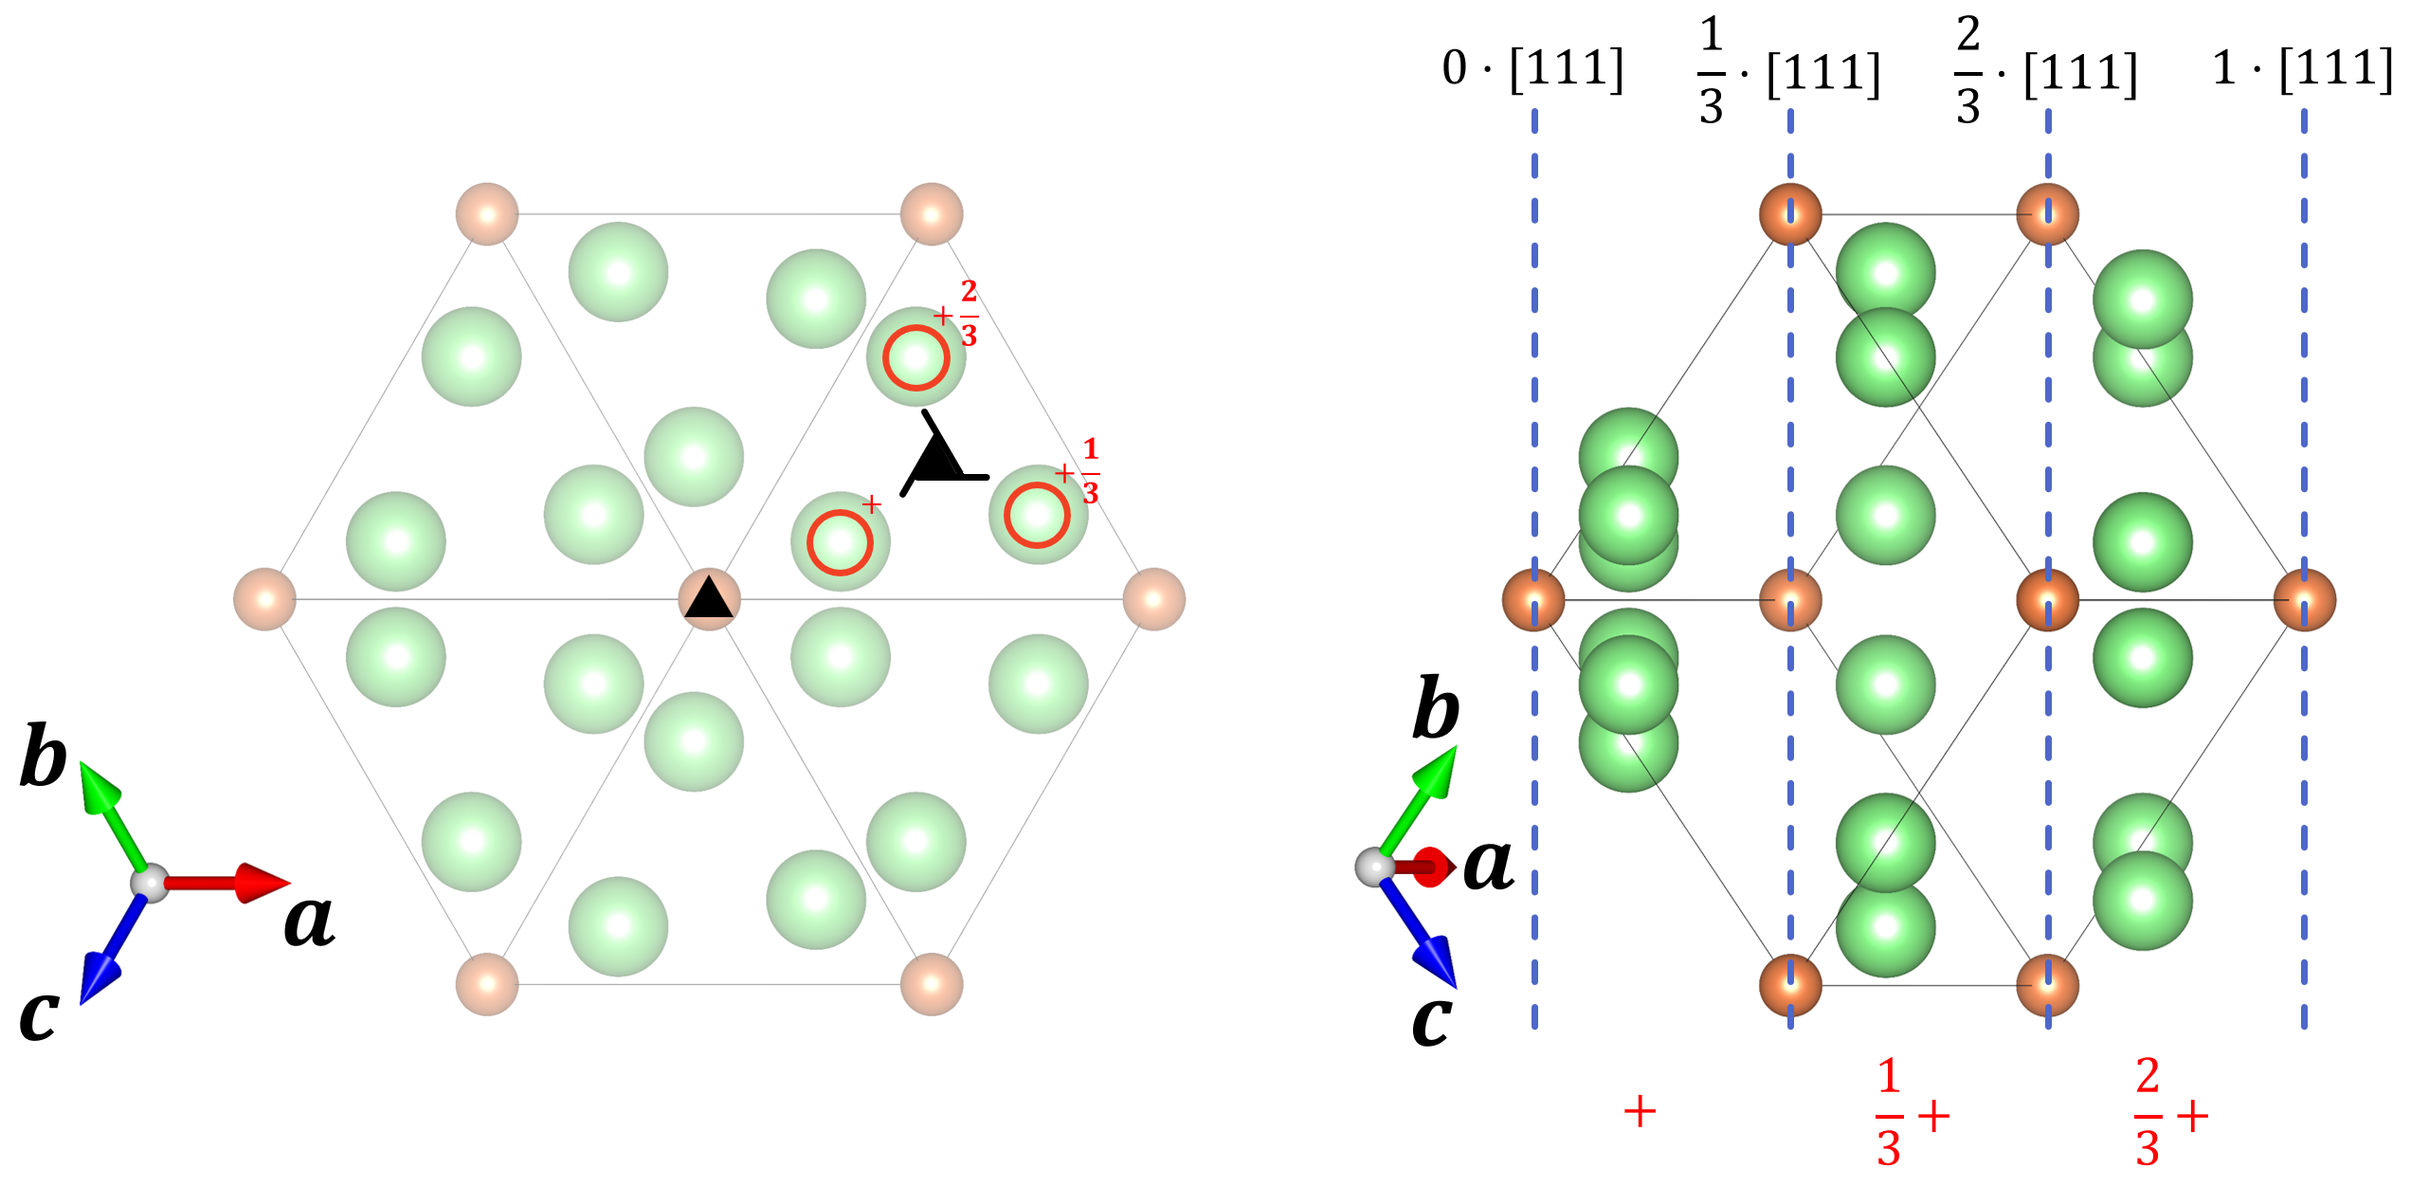
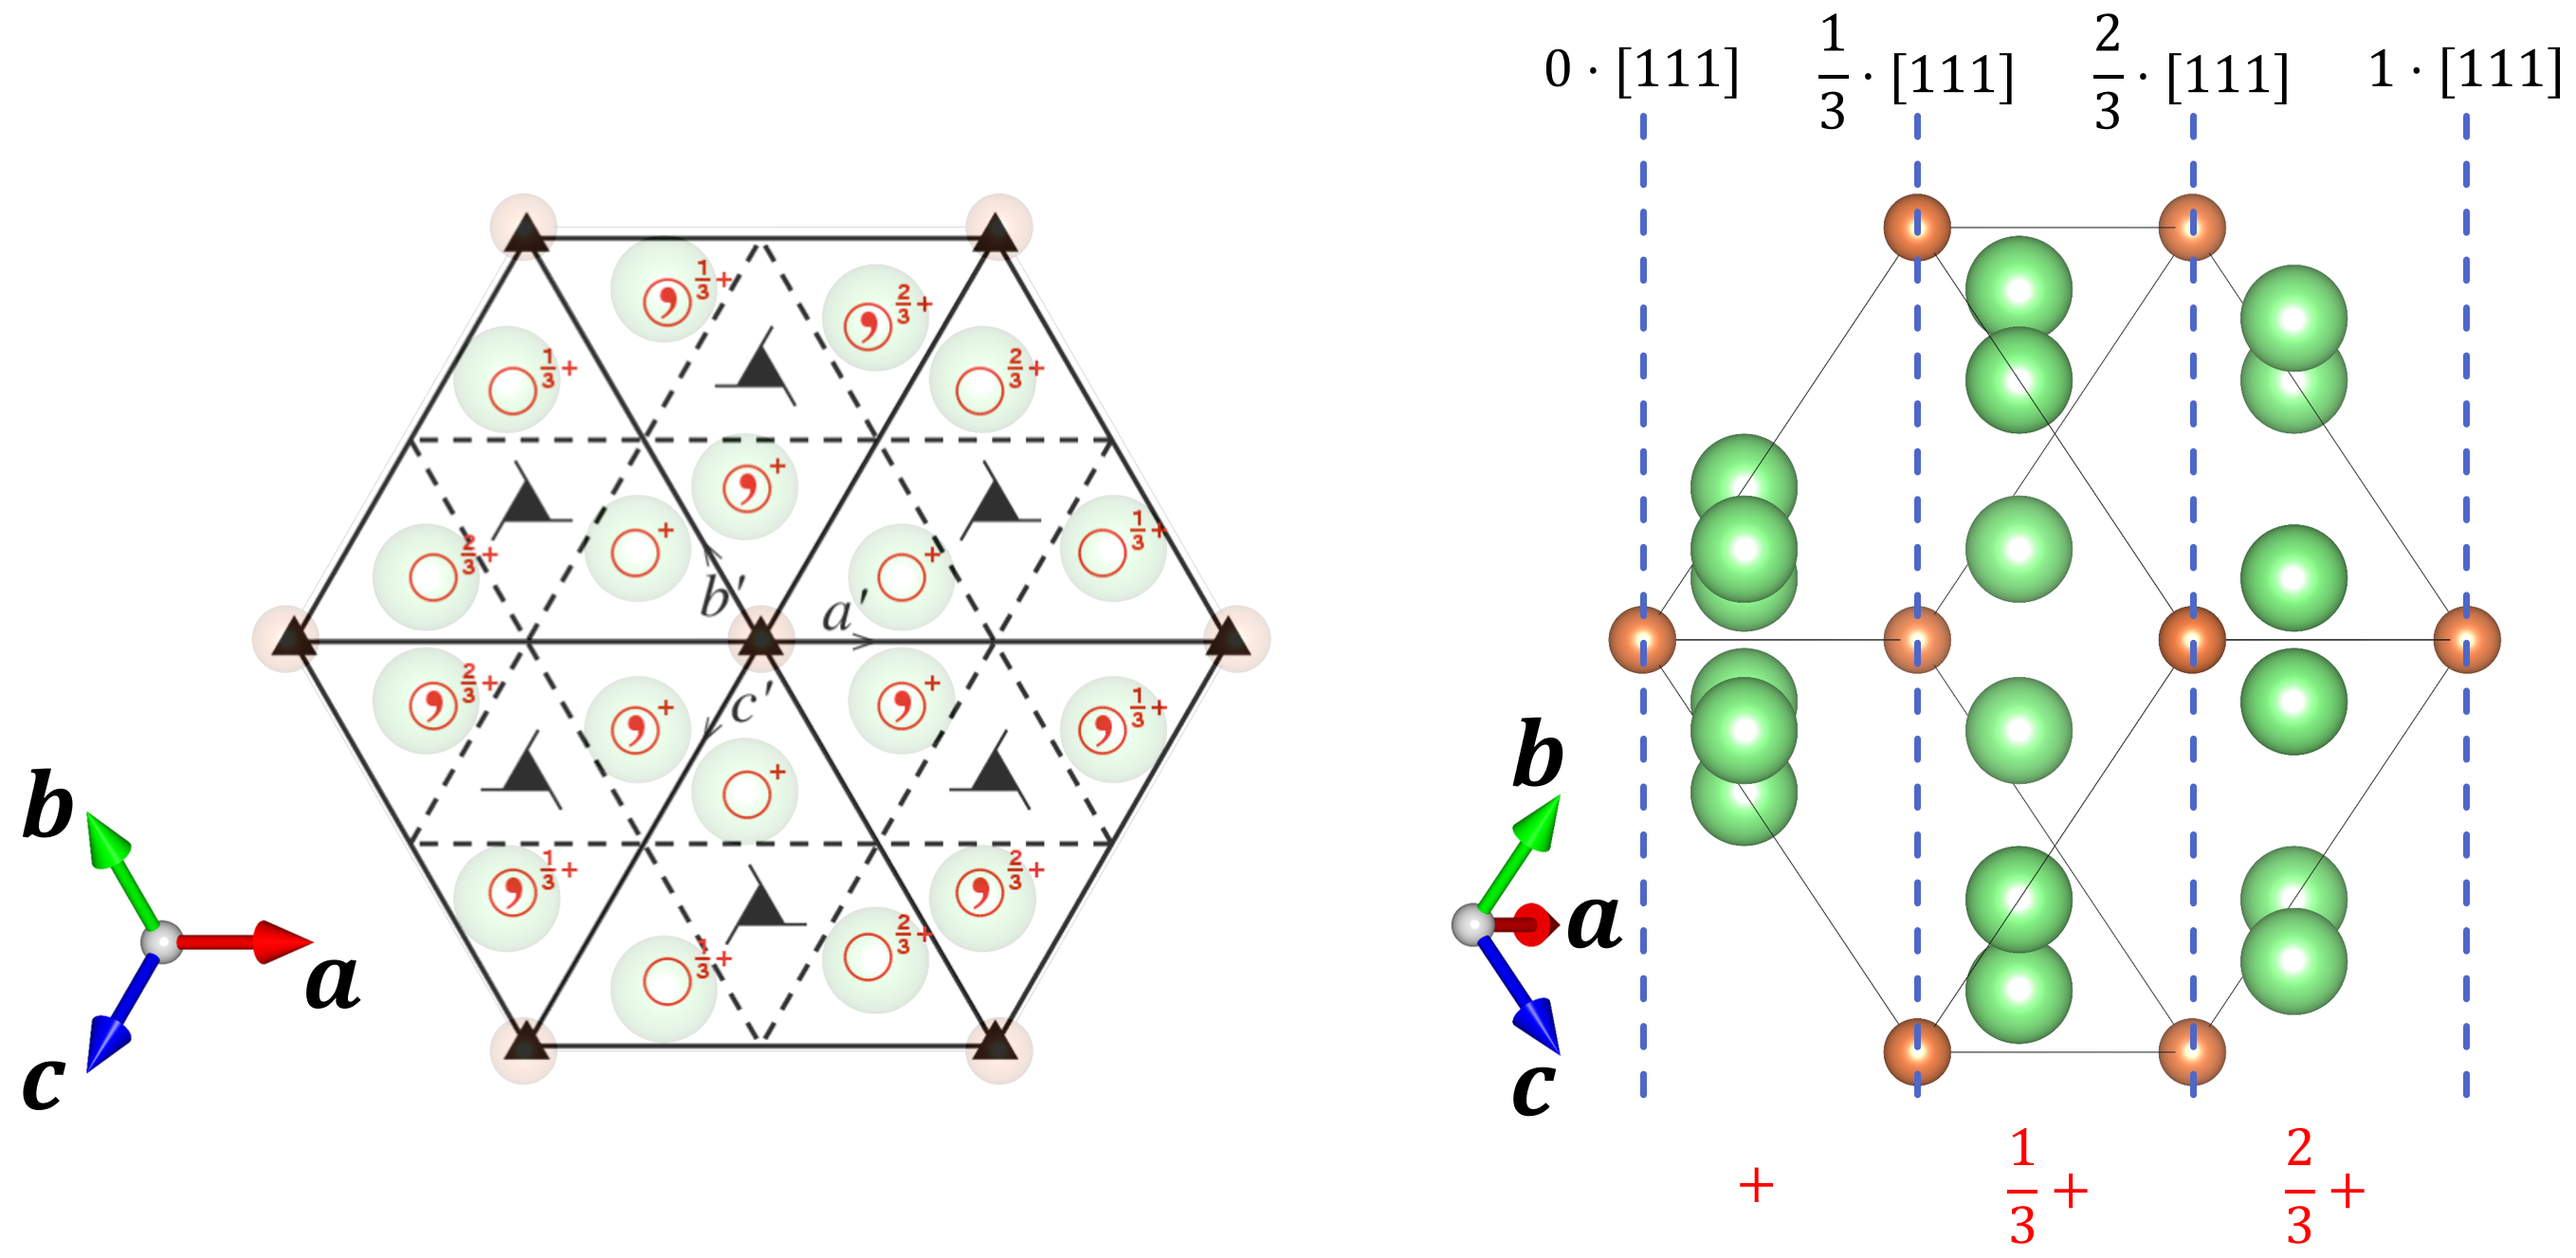
change figures after permission granted

diff --git a/_posts/2026-09-18-crystallography_r2.md b/_posts/2026-09-18-crystallography_r2.md
@@ -256,6 +256,10 @@ $$
 
 This means, for the site $$\mathbf{p}$$, we have its site symmetry group as $$\text{Stab}(\mathbf{p})$$. If a space group operation $$g$$ not in the stabalizer brings $$\mathbf{p}$$ to $$\mathbf{q}$$, the site symmetry group of the new site $$\mathbf{q}$$ is given as $$g\text{Stab}(\mathbf{p})g^{-1}$$ which is conjugate to $$\text{Stab}(\mathbf{p})$$ (this is the definition of conjugate subgroups). Let's walk through the conjugacy formulation and we can see why the derived conjugacy here means equivalence among sites involved in a Wyckoff position. For the position $$\mathbf{q}$$ obtained after the operation of $$g$$, not only the position of the object is changed but also the symmetry elements (rotation axis, mirror planes, etc.) are reoriented. To link to the situation before the operation of $$g$$, let's do this. We first apply $$g^{-1}$$ on $$\mathbf{q}$$ to bring it back to $$\mathbf{p}$$. Then whatever symmetry operations in $$\text{Stab}(\mathbf{p})$$ will leave $$\text{p}$$ invariant. Then we apply $$g$$ again to bring it back to $$\mathbf{q}$$. Doing this, we find that no matter how the symmetry elements are changed by the operation of $$g$$, we can always follow the chain of actions as given here to stabalize $$\mathbf{q}$$ the same way as how $$\text{Stab}(\mathbf{p})$$ would stabalize $$\mathbf{p}$$ before the operation of $$g$$. Therefore, the operation of $$g$$ does not change anything fundamentally regarding the site symmetry -- that's exactly what we mean by equivalence among sites involved in a Wyckoff position. Since the chain of action we performed here is just $$g\text{Stab}(\mathbf{p})g^{-1}$$, exactly the conjugate of $$\text{Stab}(\mathbf{p})$$, we then understand why the Wyckoff position is defined by the conjugacy of site symmetry groups.
 
+## Acknowledgement
+
+Figures involved in the post use the diagram figures for space groups from Ref. [9]. Thank you Jeremy Karl Cockcroft and the team at Birkbeck College, University of London for this great resource!
+
 ## References
 
 [1] [Space Group Diagram Symbols](http://img.chem.ucl.ac.uk/sgp/misc/symbols.htm).
@@ -273,3 +277,5 @@ This means, for the site $$\mathbf{p}$$, we have its site symmetry group as $$\t
 [7] [Geometric crystal class](https://dictionary.iucr.org/Geometric_crystal_class)
 
 [8] [P4mm space group diagram](http://img.chem.ucl.ac.uk/sgp/large/099az1.htm)
+
+[9] [Space Group Diagrams and Tables](http://img.chem.ucl.ac.uk/sgp/large/sgp.htm)
